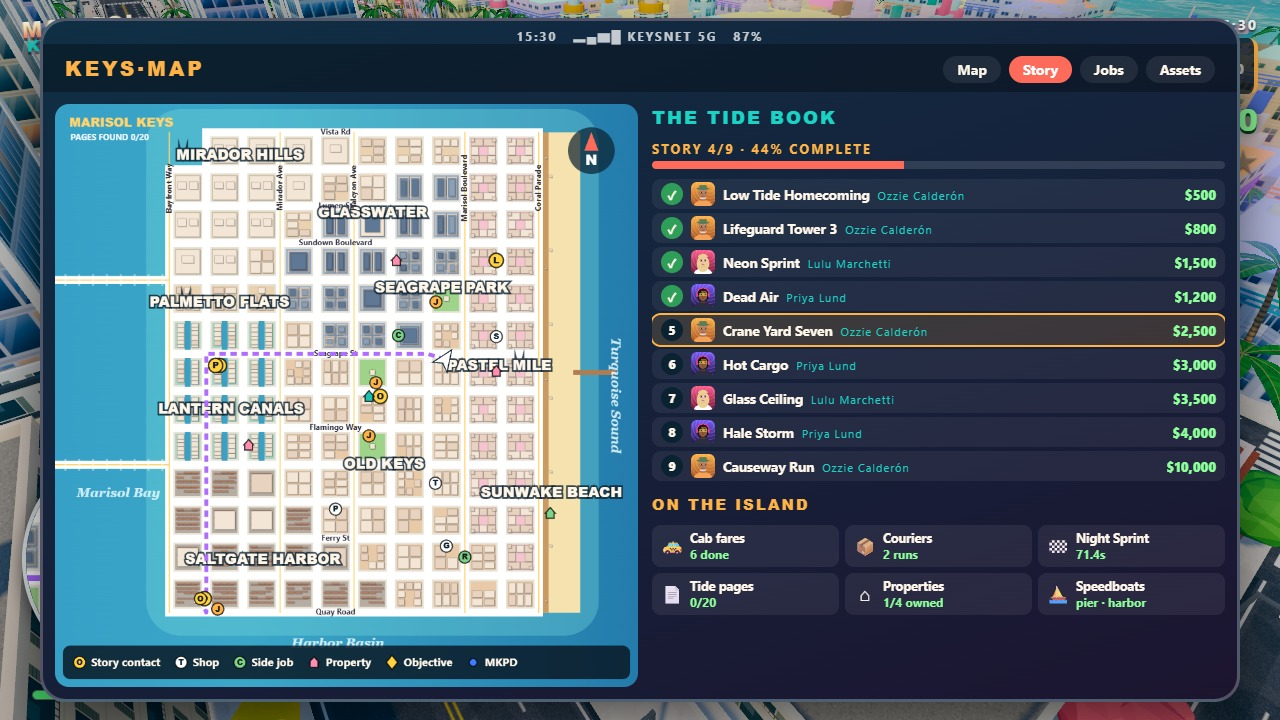
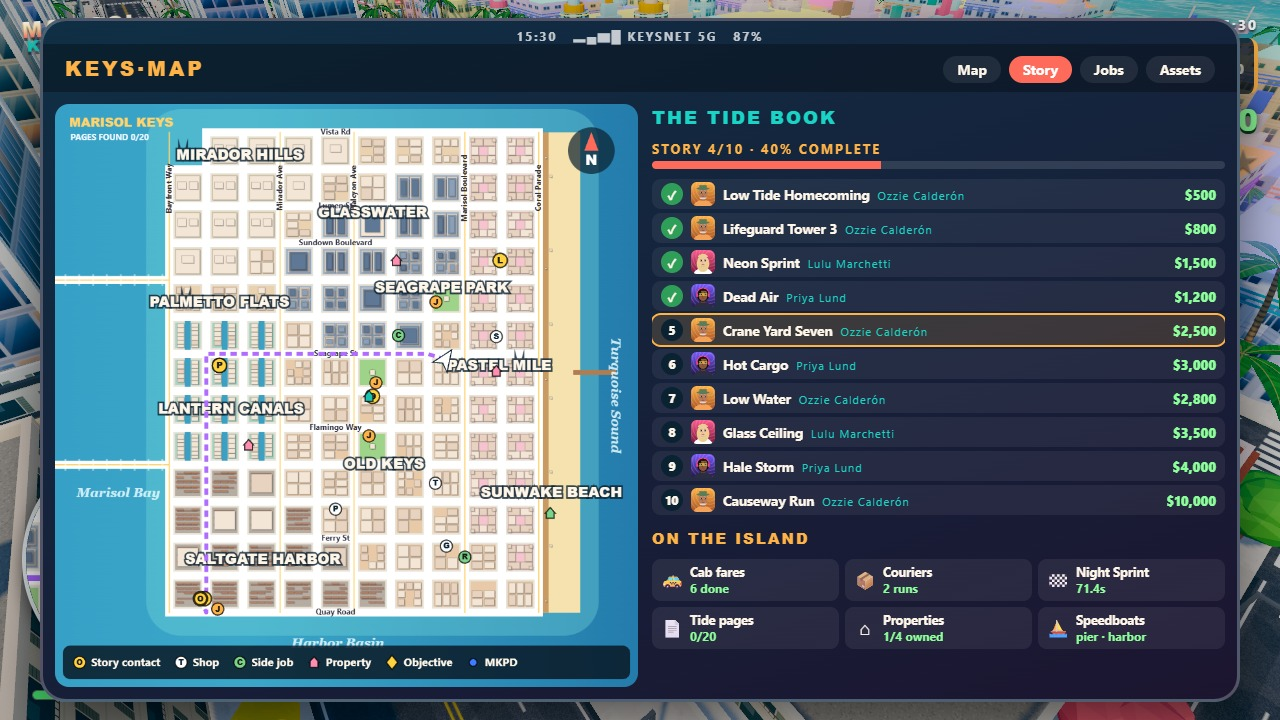
Tenth mission, Low Water: a timed speedboat run round the island; boats board from the quay

diff --git a/game/src/missions/storyMissions.js b/game/src/missions/storyMissions.js
@@ -116,6 +116,25 @@ export const STORY = [
     ],
   },
   {
+    id: 'lowwater', title: 'Low Water', giver: 'ozzie', at: 'ozzie', reward: 2800,
+    blurb: 'Run copies of the manifests round the island by speedboat before the harbor closes.',
+    steps: [
+      { type: 'talk', lines: [
+        ['ozzie', 'Priya made copies. If Hale seals the basin, the originals never leave the island.'],
+        ['ozzie', 'My Riptide is tied up below the shop. Round the south point, up the Sound, to the press boat off the pier.'],
+        ['tessa', 'You still keep that thing fuelled?'],
+        ['ozzie', 'I keep everything fuelled, Tess. That is the whole job.'],
+      ] },
+      { type: 'enterVehicle', vehicle: { type: 'boat', x: 196, z: 910.5, heading: Math.PI / 2, paint: '#e63946' }, text: 'Get in Ozzie\'s <b>Riptide</b> speedboat' },
+      { type: 'checkpoints', timer: 120, text: 'Run the <b>buoys</b> round the island', points: [
+        [420, 985], [640, 990], [860, 960], [905, 800], [905, 620], [912, 470],
+      ] },
+      { type: 'talk', lines: [
+        ['priya', 'Press boat has them. Whatever Hale does now, the story is already off the island.'],
+      ] },
+    ],
+  },
+  {
     id: 'glass', title: 'Glass Ceiling', giver: 'lulu', at: 'lulu', reward: 3500,
     blurb: 'Run Gull off the road before he reaches Hale downtown.',
     steps: [

diff --git a/game/src/missions/markers.js b/game/src/missions/markers.js
@@ -24,7 +24,7 @@ export class Marker {
   constructor(scene, x, z, { color = '#ffd23f', radius = 2.2, height = 7, chevron = true } = {}) {
     this.scene = scene;
     this.group = new THREE.Group();
-    const y = groundHeight(x, z);
+    const y = Math.max(groundHeight(x, z), -0.5); // on the water, markers float at the surface
     this.group.position.set(x, y + 0.05, z);
     const beamMat = new THREE.MeshBasicMaterial({ color, map: beamTexture(), transparent: true, depthWrite: false, side: THREE.DoubleSide, blending: THREE.AdditiveBlending, toneMapped: false });
     const beam = new THREE.Mesh(new THREE.CylinderGeometry(radius, radius, height, 28, 1, true), beamMat);

diff --git a/game/src/player/player.js b/game/src/player/player.js
@@ -266,7 +266,9 @@ export class Player {
   }
 
   tryEnterVehicle(ctx) {
-    const v = ctx.vehicles.nearest(this.pos.x, this.pos.z, 4.5, (c) => !c.wrecked && c.driver !== 'player');
+    // boats sit off the quay, so they can be boarded from a little further away
+    const v = ctx.vehicles.nearest(this.pos.x, this.pos.z, 4.5, (c) => !c.wrecked && c.driver !== 'player')
+      || ctx.vehicles.nearest(this.pos.x, this.pos.z, 9.5, (c) => c.spec.boat && !c.wrecked && c.driver !== 'player');
     if (!v) return;
     const right = v.right();
     const side = ((this.pos.x - v.pos.x) * right.x + (this.pos.z - v.pos.z) * right.z) > 0 ? 1 : -1;

diff --git a/README.md b/README.md
@@ -77,9 +77,9 @@ Any static file server works too: the game is just the files under `game/`.
   wasted both have consequences.
 - **Combat** — fists, pistol, SMG and shotgun with muzzle flash, tracers, sparks and blood;
   armed gang crews and officers that advance, strafe and return fire.
-- **Story** — *The Tide Book*, nine missions with dialogue and painted portraits for Tessa, Ozzie
+- **Story** — *The Tide Book*, ten missions with dialogue and painted portraits for Tessa, Ozzie
   Calderón, Priya Lund, Lulu Marchetti, Gideon "Gull" Moreau and Captain Rourke Hale: drives,
-  races, wiretap relays against the clock, harbor shoot-outs, a stolen evidence van, a downtown takedown and a
+  races, wiretap relays against the clock, harbor shoot-outs, a stolen evidence van, a speedboat run round the island, a downtown takedown and a
   four-star run across the causeway. Contacts wait in person at their spots and face-to-face
   scenes cut to a two-shot camera; a new game opens with a letterboxed glide down from the skyline; MKPD dispatch chatter narrates every pursuit.
 - **Side jobs and progression** — Keys Cab fares, Sunrise Couriers deliveries, the Night Sprint
